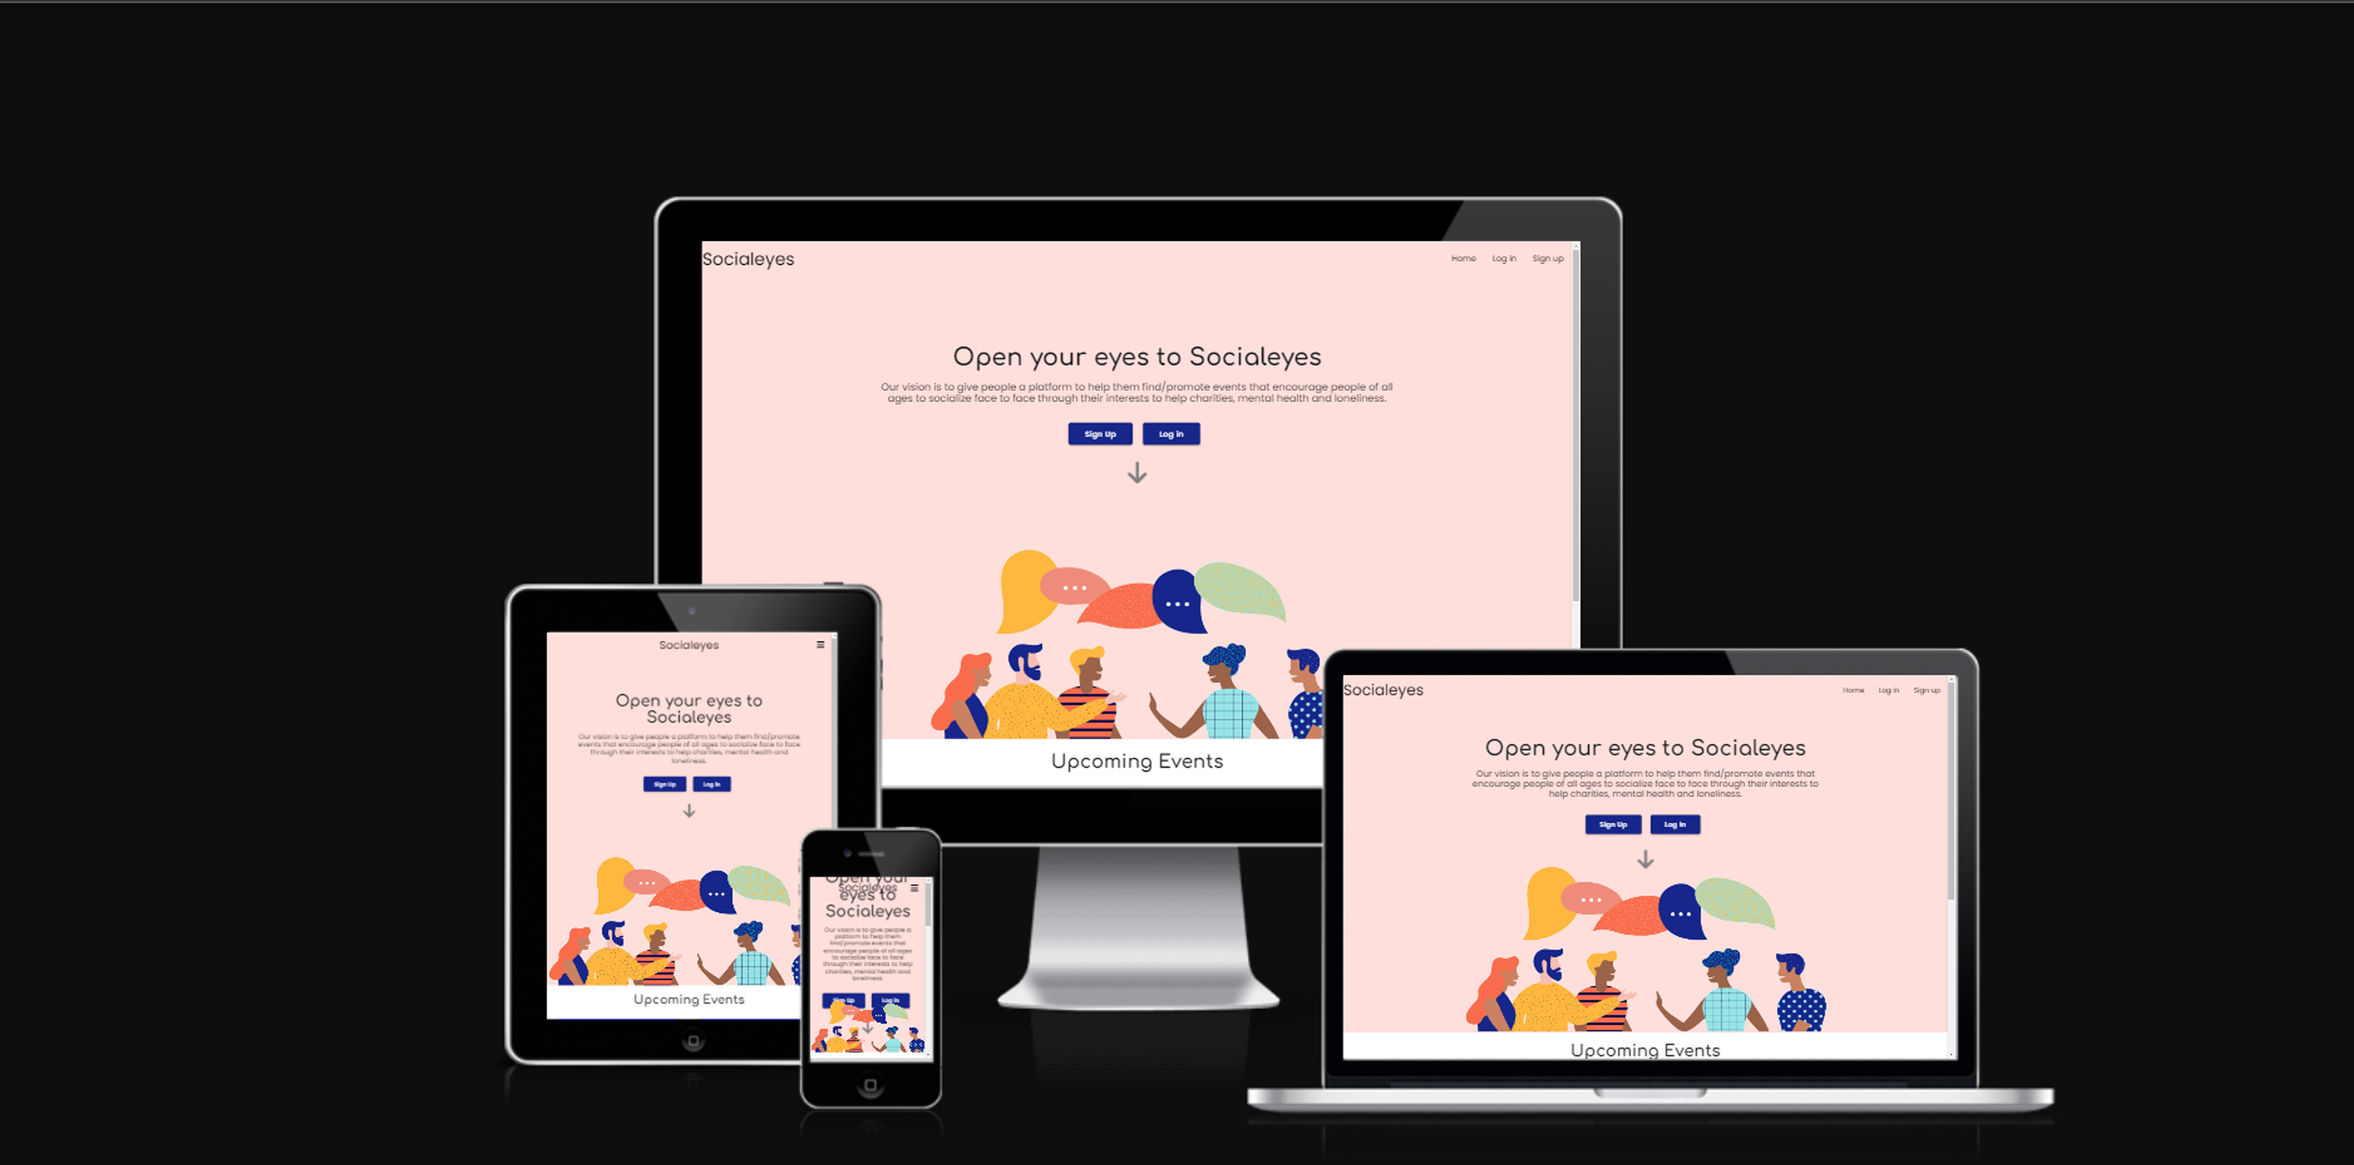
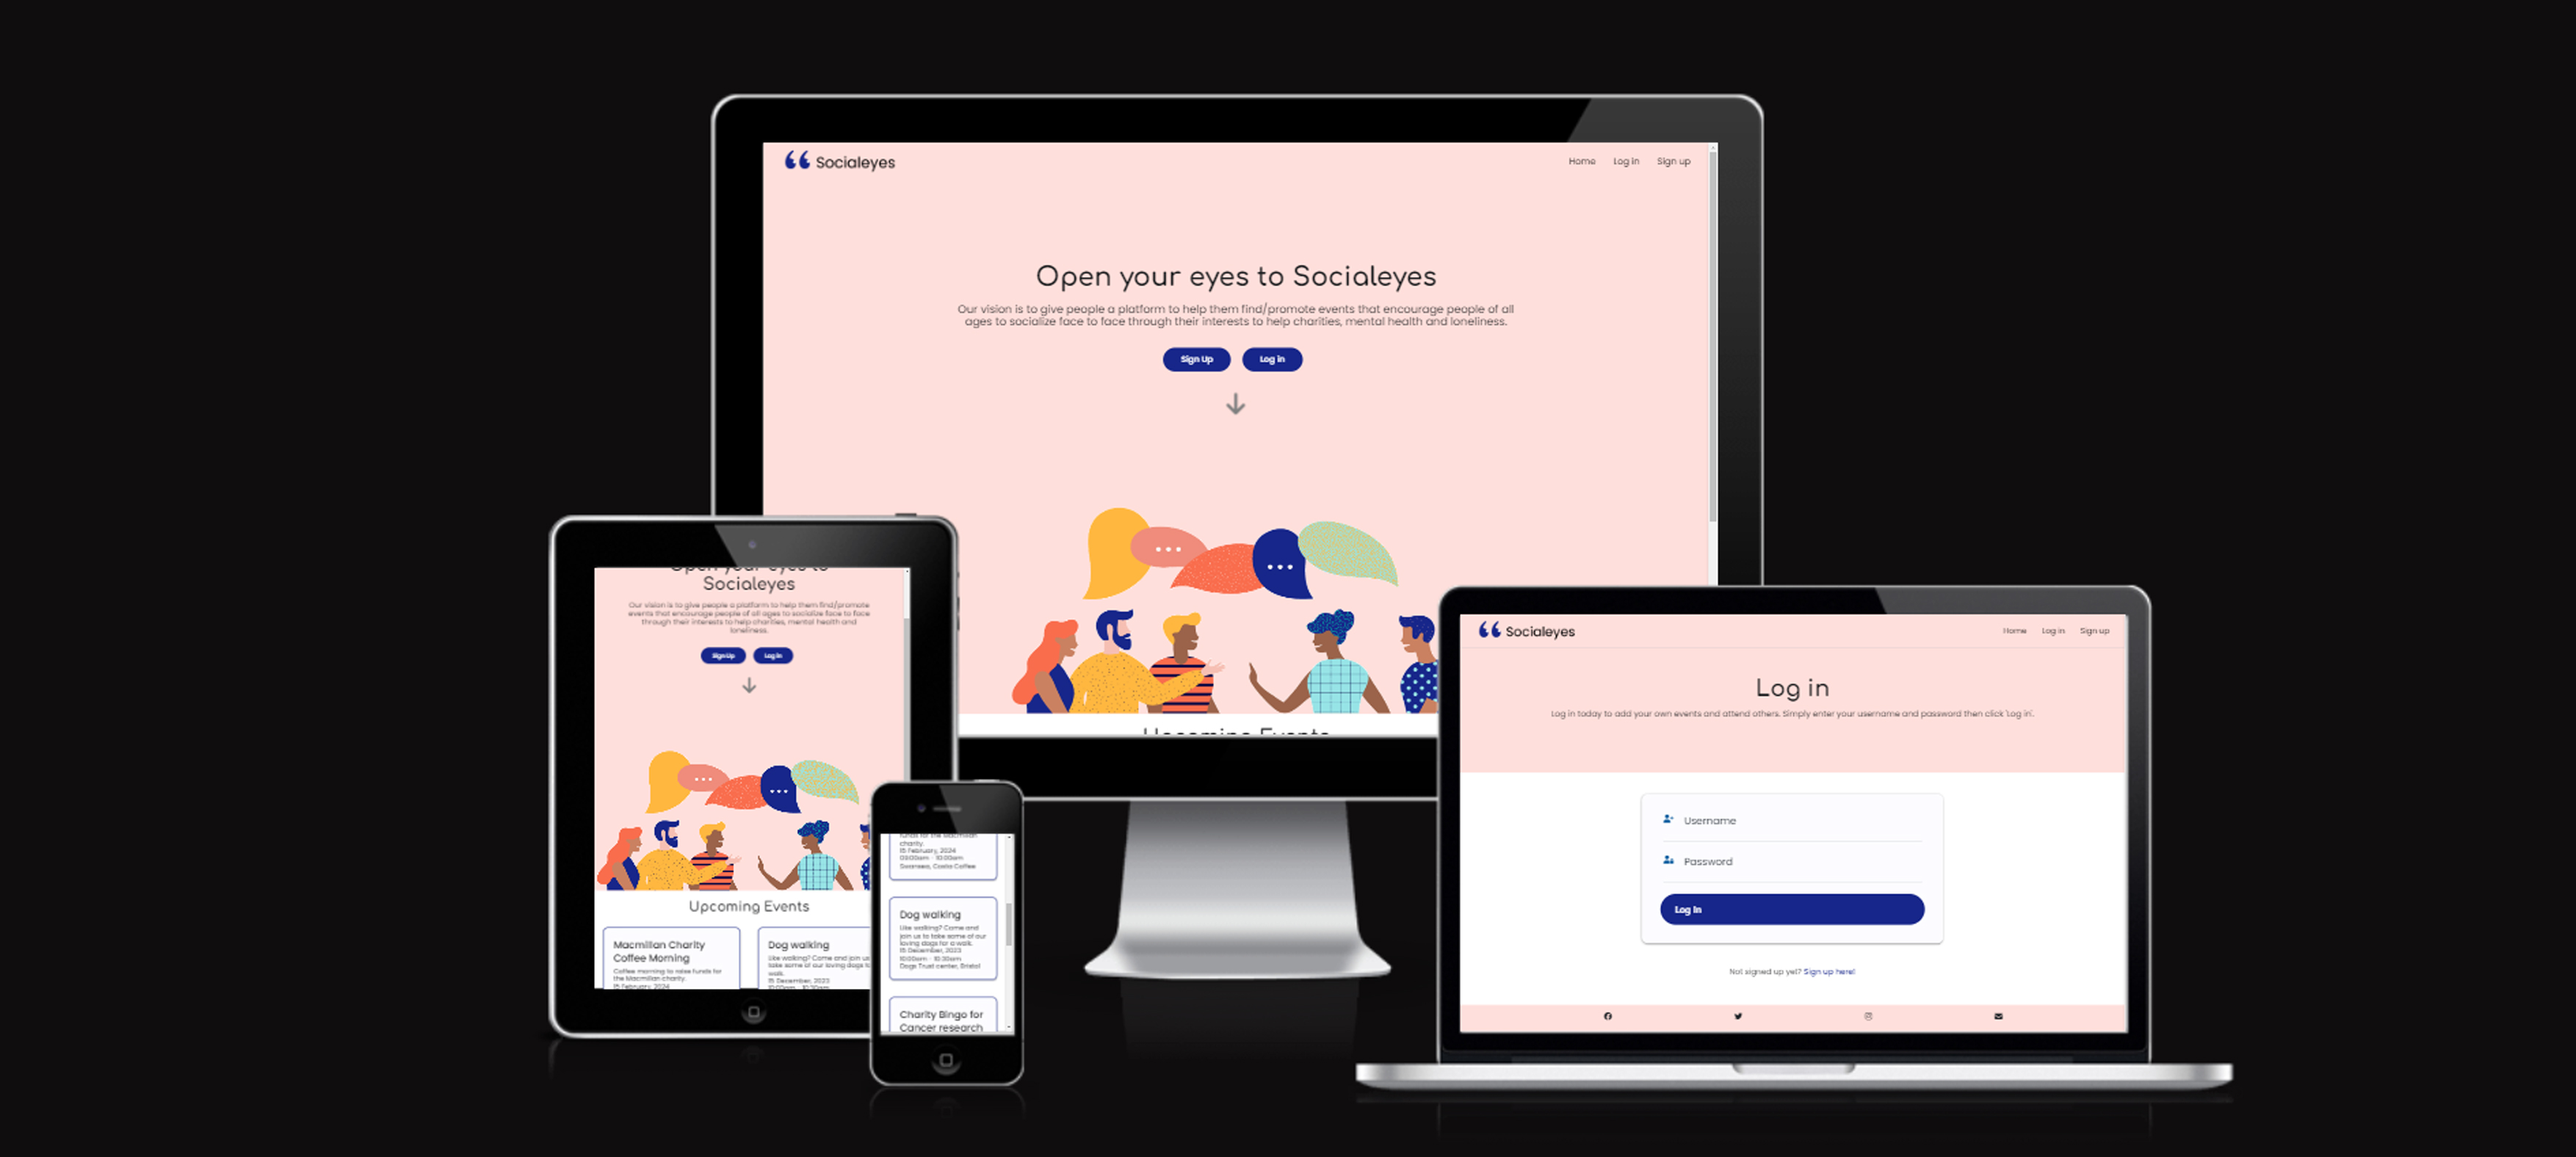
Docs: Update read me with feature descriptions

Changed region(s): [[0.1871, 0.0622, 0.8734, 0.9638]]

diff --git a/README.md b/README.md
@@ -1,6 +1,6 @@
 # [SOCIALEYES](https://socialeyes-1884ceb59a89.herokuapp.com)
 
-The aim of Socialeyes is to promote events that encourage people of all ages to socialize face to face through their interests/hobbies or charities to help improve mental health and conquer loneliness. This platform will give the space for users to have the ability to view upcoming events that may be of interest to them but also to add their own event if they want to. 
+The aim of Socialeyes is to promote events that encourage people of all ages to socialize face to face through their interests/hobbies or charities to help improve mental health and conquer loneliness. This platform will give the space for users to have the ability to see upcoming events that may be of interest and to click 'I'll be attending' to sign up for events or they can add their own event if they want to. 
 
 The second aim is to give fundraising events/charities a platform where they can share any events or needs that could help them out for users who may have a little spare time. The event coordinators will have the ability to add, update and delete events.
 
@@ -24,8 +24,9 @@ Events
 
 ## UX
 
-Socialeyes is created as a simple interactive website, making it user-friendly and simple to use as it has a wide age range of target audience. The website has been designed in a simple linear structure so that it can be easily developed further in the future and has the potential to add many more features to it without the site looking overcrowded. It's a smooth journey to achieve what users are looking for with simple forms depending on what they need to do such as sign up or log in. The sign up form has only 4 inputs and log in has just 2 and both of which have a big blue highlighted button making it noticible for everyone to see using the hover button. To help the users further content hinting has also been implemented in the design to show users can scroll down for more content.
-The purpose of the app is to encourage users of all ages and therefore some users may not be tech savvy which is why the site has a very basic approach which also keeps users on the website as if they are overloaded with information of a complex looking form the users will leave the site. The type of site is also a site which users can or will be returning to as frequent as they want and so a simple design layout means it is easier to add new features accordingly for the admin.
+Socialeyes is created as a simple interactive website, making it user-friendly and simple to use as it has a wide age range of target audience. The website has been designed in a standard hierarchial tree structure so that the users does not to to click more than 3 times to get to their destination. This standard structure design means it can also be easily developed further in the future and has the potential to add many more features to it without the site looking overcrowded. It's a smooth journey to achieve what users are looking for with simple forms depending on what they need to do such as sign up or log in. 
+The sign up form has only 4 inputs and log in has just 2 and both of which have a big blue highlighted button making it noticable for everyone to see using the hover button. To help the users further content hinting has also been implemented in the design to show users can scroll down for more content.
+The purpose of the app is to encourage users of all ages and therefore some users may not be tech savvy which is why the site has a very basic approach which also keeps users on the website as if they are overloaded with information or a complex looking form it will lose the users attention. The type of site is also a site which users can or will be returning to as frequent as they want and so a simple design layout means it is easier to add new features accordingly for the admin. The branding was designed by myself by using speech marks as a respresentation of eyes followed by the brand name so that it is keeping to the convention of simplicity but it is also memorable so users will recognise the brand and boost it's popularity.
 
 ### Colour Scheme
 
@@ -48,7 +49,7 @@ I have used Google fonts to help with the styles of the fonts used in the websit
 
 - [Comfortaa](https://fonts.google.com/specimen/Comfortaa) was used for the primary headers and titles.
 
-- [Poppins](https://fonts.google.com/specimen/Poppins) was used for all other secondary text.
+- [Poppins](https://fonts.google.com/specimen/Poppins) was used the logo branding and any secondary text.
 
 - [Font Awesome](https://fontawesome.com) icons were used throughout the site, such as the social media icons in the footer.
 
@@ -56,27 +57,26 @@ I have used Google fonts to help with the styles of the fonts used in the websit
 
 ### New Site Users
 
-- As a new site user, I would like to ____________, so that I can ____________.
-- As a new site user, I would like to ____________, so that I can ____________.
-- As a new site user, I would like to ____________, so that I can ____________.
-- As a new site user, I would like to ____________, so that I can ____________.
-- As a new site user, I would like to ____________, so that I can ____________.
+- As a new site user, I would like to 'like' which events I want to attend, so that I can sign up for the event.
+- As a new site user, I would like to like to be able to register for my own account so that I can sign up for events without having to fill in a form each time as it will already have my details stored.
+- As a new site user, I would like to simply view a list of different events so that I can decide which I prefer.
+- As a new site user, I would like to add my own events so that I can advertise any help needed for charities.
+- As a new site user, I would like have simple access to the sites social media pages so I can contact for help if needed or provide feedback.
 
 ### Returning Site Users
 
-- As a returning site user, I would like to ____________, so that I can ____________.
-- As a returning site user, I would like to ____________, so that I can ____________.
-- As a returning site user, I would like to ____________, so that I can ____________.
-- As a returning site user, I would like to ____________, so that I can ____________.
-- As a returning site user, I would like to ____________, so that I can ____________.
+- As a returning site user, I would like to edit, so that I can so that I can update any details of my event.
+- As a returning site user, I would like to delete, so that I can delete my event if necessary.
+- As a returning site user, I would like to have the option to unattend events, so that I can unattend if i can no longer go to that event.
+- As a returning site user, I would like to login, so that I can view any events I will be attending.
+- As a returning site user, I would like to log out, so that I am no longer kept signed in if I leave the site.
 
 ### Site Admin
 
-- As a site administrator, I should be able to ____________, so that I can ____________.
-- As a site administrator, I should be able to ____________, so that I can ____________.
-- As a site administrator, I should be able to ____________, so that I can ____________.
-- As a site administrator, I should be able to ____________, so that I can ____________.
-- As a site administrator, I should be able to ____________, so that I can ____________.
+- As a site administrator, I should be able to edit events, so that I can update any details of events if needed.
+- As a site administrator, I should be able to delete events, so that I can delete events if the events are postponed or cancelled.
+- As a site administrator, I should be able to have my own profile, so that I can see my own events created.
+- As a site administrator, I should be able to add as many events as needed, so that I do not have any limits.
 
 ## Wireframes
 
@@ -111,37 +111,38 @@ Add/Edit Event
 ### Existing Features
 
 - **Navbar**
-<!-- 
-    Details about this particular feature, including the value to the site, and benefit for the user. Be as detailed as possible!You will need to explain what value each of the features provides for the user,
-focusing on who this website is for, what it is that they want to achieve,
-and how your project is the best way to help them achieve these things. -->
+
+The navbar background colour has been blended into the colour of the callout section for the website design so it becomes part of the design of the page. For easier navigaition and readibility for the user the navbar is responsive and has a collapsable white side navbar for smaller devices up to tablet size devices. The navbar feature is essential for users to navigate through each page of the site and it is a feature the users will always depend on to achieve what they want to do or see on the site. 
 
 ![screenshot](documentation/feature1.jpg)
 ![screenshot](documentation/feature1-mobile.jpg)
 
 - **Logo**
 
-    - Details about this particular feature, including the value to the site, and benefit for the user. Be as detailed as possible!
+    - The logo sits within the navbar and following standard website conventions the logo is another way the user can 'click' their way back to the homepage for even simpler use of the site or app. The logo was designed by myself to represent the eyes in the word socialeyes by using ""speech marks as the concept is about socialising and communication between one another.
+    I've used the shade of blue that's used within the hero image so the brand flows nicely into the design of the site.
+    A logo increases brand awareness and recognition as the brand grows and people may even make a judgement based on how the logo makes them feel, which is one of the main values to having it on the website. 
 
 ![screenshot](documentation/feature2.jpg)
 
 - **Callout header**
 
-    - Details about this particular feature, including the value to the site, and benefit for the user. Be as detailed as possible!
+    - The callout header includes a header with the company slogan to capture the audiences attention along with a short description of the company's philosophy. If the user is not logged in it will also include log in or sign up buttons to make it easier for users to find what they want to do without having to look far. 
 
 ![screenshot](documentation/feature3.jpg)
 
 - **Arrow Button**
 
-    - Details about this particular feature, including the value to the site, and benefit for the user. Be as detailed as possible!
+    - An animated arrow displays on the home page to show users that you can scroll down to view more or click the arrow so it automatically jumps to the next section of the page. The use of animation clearly shows users that it is clickable.
 
-<!-- ![screenshot](documentation/feature3.jpg) -->
+![screenshot](documentation/feature4.jpg)
 
 - **Hero Image**
 
-    - Details about this particular feature, including the value to the site, and benefit for the user. Be as detailed as possible!
+    - The hero image is for aesthetic to make the website look visually appealing but to also demonstrate visually the purpose of the website at first glance. The hero image is a colourful illustration of people communicating amongst one another and each person looks visually different, which as I mentioned previous in the colour scheme section that the colours work well together even though they are all completely different colours and it is a good way to symbolise the objective of the app, which is to bring different people from different backgrounds together.
+    The value a good designed site can bring is a good impression and returning customers due to its memorable design, and so the effective use of colour and imagery is important for first impressions.
 
-<!-- ![screenshot](documentation/feature3.jpg) -->
+![screenshot](documentation/feature5.jpg)
 
 - **Cards**
 
@@ -203,6 +204,13 @@ and how your project is the best way to help them achieve these things. -->
 
 <!-- ![screenshot](documentation/feature3.jpg) -->
 
+- **Delete Event**
+
+    - Details about this particular feature, including the value to the site, and benefit for the user. Be as detailed as possible!
+
+<!-- ![screenshot](documentation/feature3.jpg) -->
+
+
 ### Future Features
 
 - Location filter #1
@@ -213,6 +221,8 @@ and how your project is the best way to help them achieve these things. -->
     - The ability to filter events by the closest dates on the upcoming events panel
 - Attendee counter #4
     - Display how many people have said they are attending based on how many users have clicked 'attending'.
+- Search filter
+    - Users are able to search for events depending on what they want, such as 'duration of event' or 'charity event' etc.
 
 ## Tools & Technologies Used
 
@@ -223,7 +233,7 @@ and how your project is the best way to help them achieve these things. -->
 - [Git](https://git-scm.com) used for version control. (`git add`, `git commit`, `git push`)
 - [GitHub](https://github.com) used for secure online code storage.
 - [Gitpod](https://gitpod.io) used as a cloud-based IDE for development.
-- [Materialize](https://materializecss.com) used as the front-end CSS framework for modern responsiveness and pre-built components.
+- [Materialize Web](https://materializeweb.com) used as the front-end CSS framework for modern responsiveness and pre-built components.
 - [Flask](https://flask.palletsprojects.com) used as the Python framework for the site.
 - [MongoDB](https://www.mongodb.com) used as the non-relational database management with Flask.
 - [Heroku](https://www.heroku.com) used for hosting the deployed back-end site.
@@ -472,7 +482,7 @@ No differences found on local and deployed site.
 | --- | --- | --- |
 | [Markdown Builder](https://tim.2bn.dev/markdown-builder) | README and TESTING | tool to help generate the Markdown files |
 | [Dev to](https://dev.to/nehalahmadkhan/how-to-make-footer-stick-to-bottom-of-web-page-3i14) | footer | How to get a sticky footer if not enough content |
-| [w3schools](https://www.w3schools.com/howto/howto_css_center-vertical.asp) | page header, edit and add page | used snippet of code to help align content vertically and horizontally.
+| [w3schools](https://www.w3schools.com/howto/howto_css_center-vertical.asp) | page header, edit and add page | used snippet of code to help align content vertically and horizontally. b0
 
 ### Media
 
